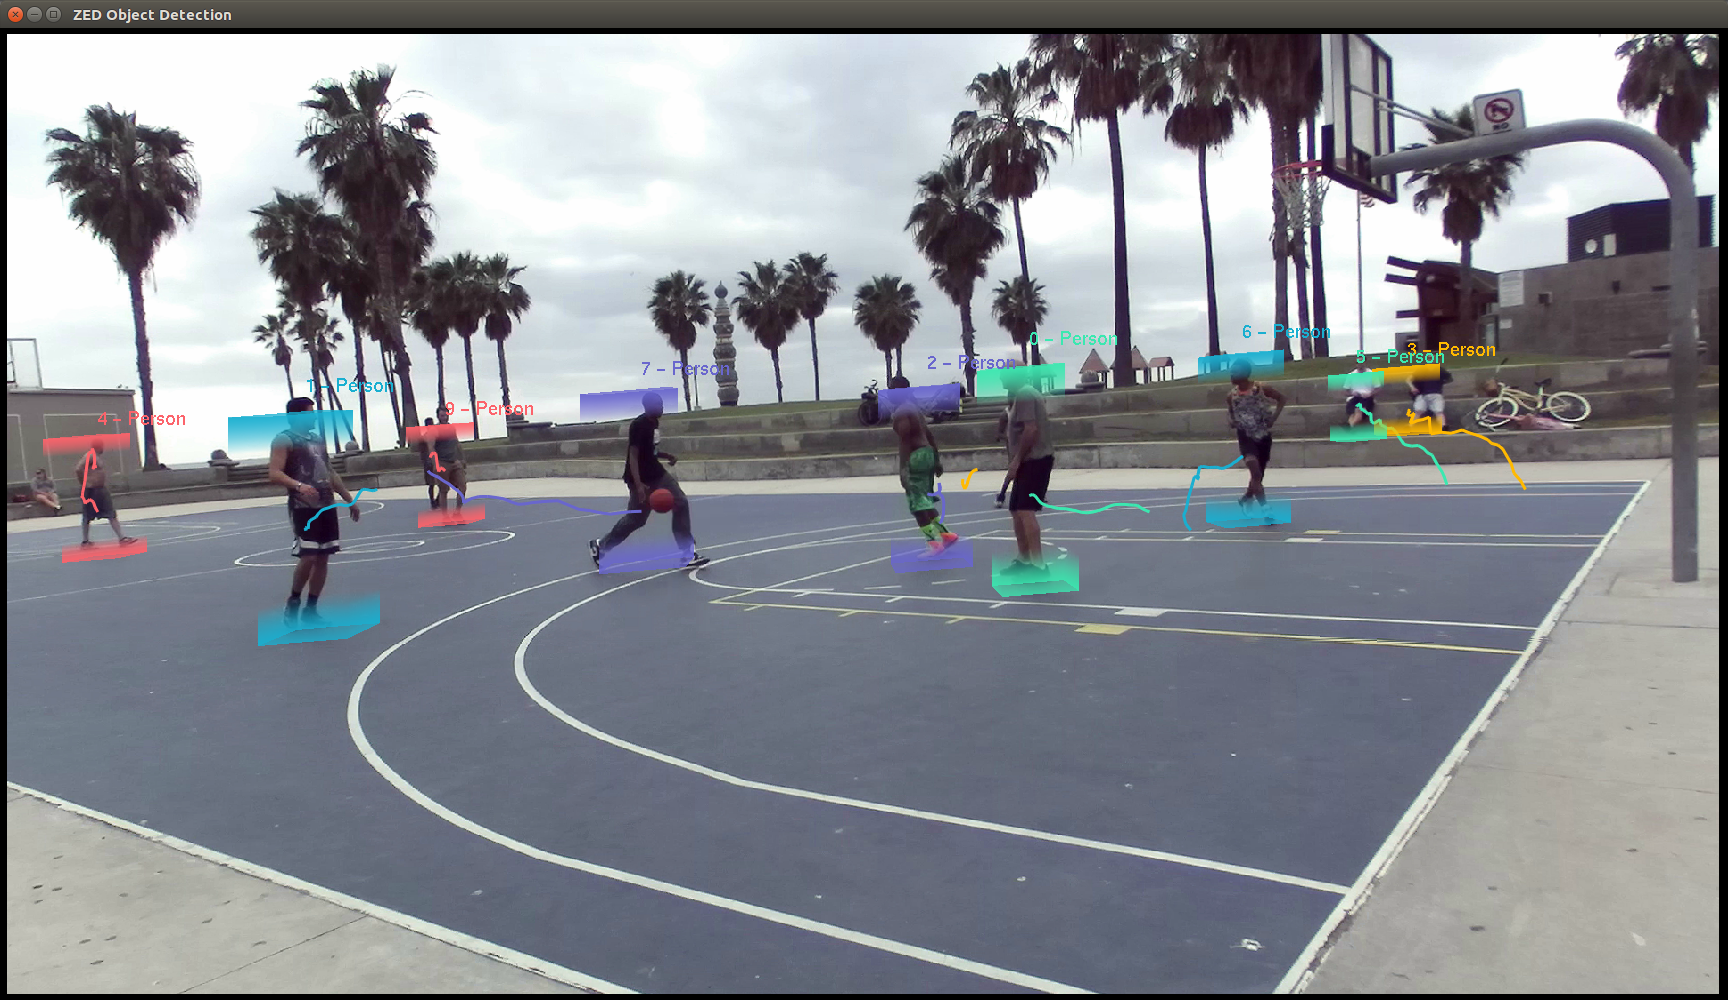
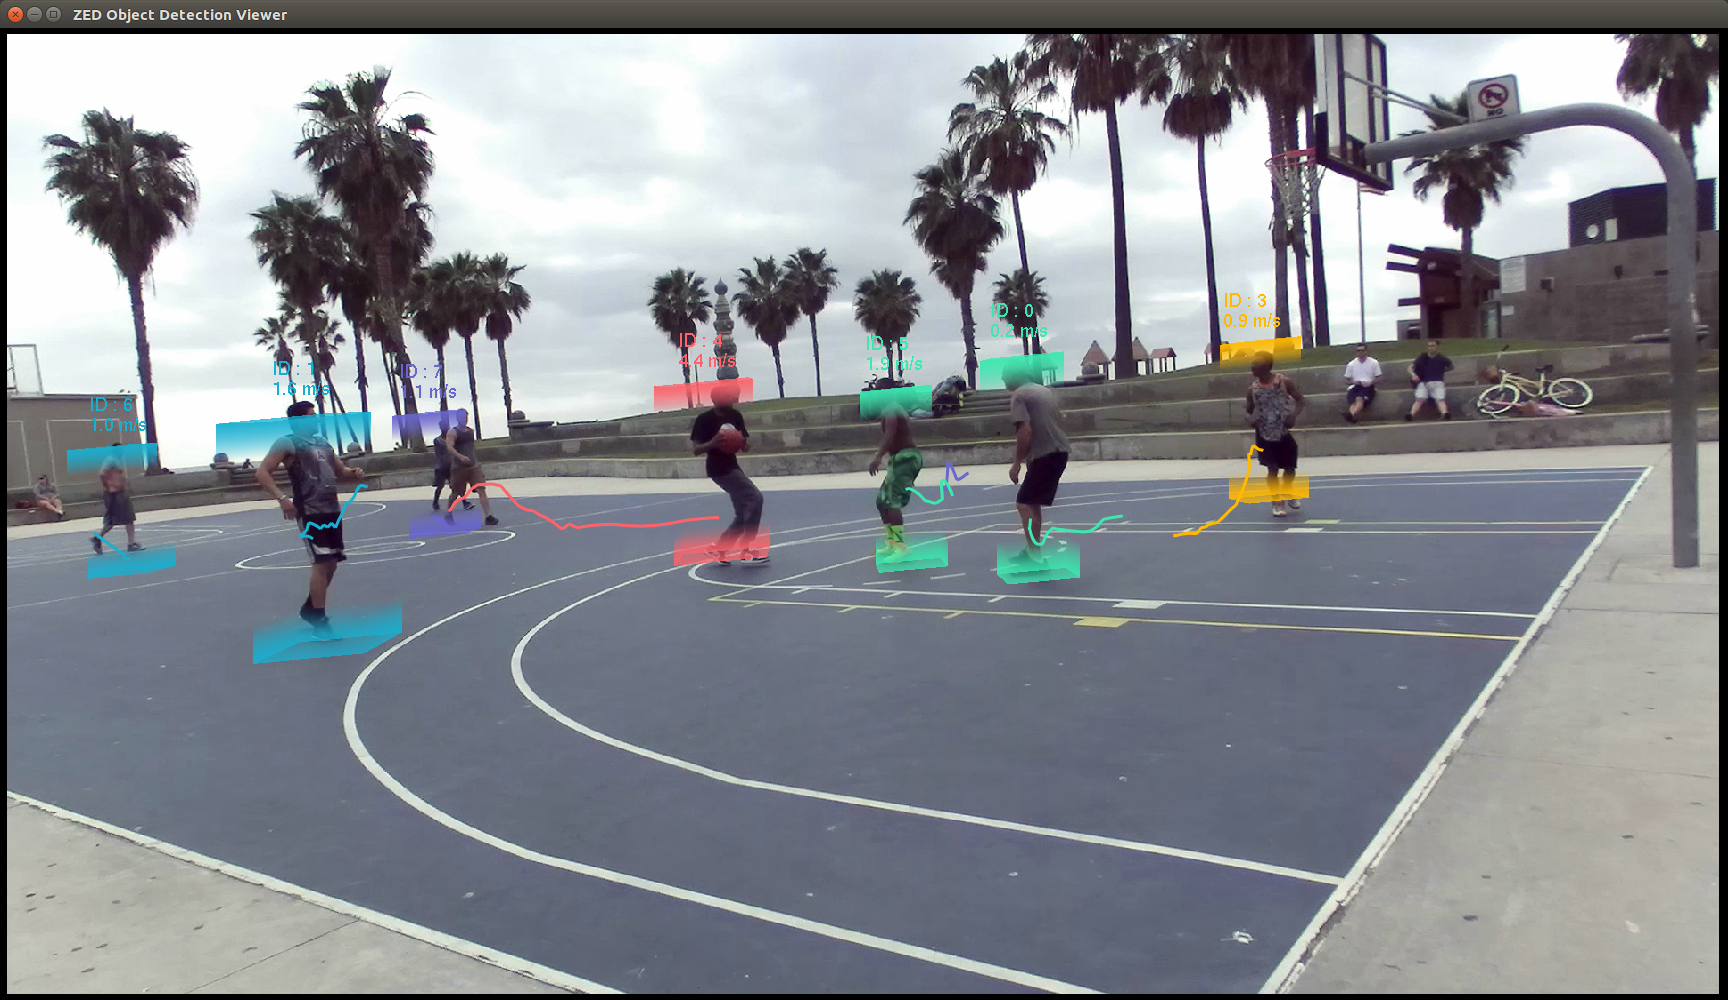
Add velocity - rework point cloud generation

diff --git a/src/GLViewer.cpp b/src/GLViewer.cpp
@@ -1,5 +1,6 @@
 #include "GLViewer.hpp"
 #include <random>
+#include "cuUtils.h"
 
 #if defined(_DEBUG) && defined(_WIN32)
 #error "This sample should not be built in Debug mode, use RelWithDebInfo if you want to do step by step."
@@ -77,7 +78,7 @@ void GLViewer::init(int argc, char **argv, sl::CameraParameters param) {
         height = param.image_size.height;
     }
 
-
+    camera_parameters = param;
     windowSize.width = width;
     windowSize.height = height;
     glutInitWindowSize(windowSize.width, windowSize.height);
@@ -100,9 +101,11 @@ void GLViewer::init(int argc, char **argv, sl::CameraParameters param) {
     glHint(GL_LINE_SMOOTH_HINT, GL_NICEST);
 
     pointCloudSize = param.image_size;
-    pointCloud_.initialize(pointCloudSize);
+    bool err_pc = pointCloud_.initialize(pointCloudSize);
+    if (!err_pc)
+        std::cout << "ERROR: Failed to initialized point cloud"<<std::endl;
 
-    // Compile and create the shader
+    // Compile and create the shader for 3D objects
     shader.it = Shader(VERTEX_SHADER, FRAGMENT_SHADER);
     shader.MVP_Mat = glGetUniformLocation(shader.it.getProgramId(), "u_mvpMatrix");
 
@@ -181,10 +184,10 @@ void GLViewer::render() {
     }
 }
 
-void GLViewer::updateData(sl::Mat &matXYZRGBA, sl::Objects &obj,sl::Timestamp image_ts) {
+void GLViewer::updateData(sl::Mat image, sl::Mat depth, sl::Objects &obj, sl::Timestamp image_ts) {
     if (mtx.try_lock()) {
 
-        pointCloud_.pushNewPC(matXYZRGBA);
+        pointCloud_.pushNewPC(image,depth,camera_parameters);
         BBox_obj.clear();
 
         std::vector<sl::ObjectData> objs = obj.object_list;
@@ -206,16 +209,13 @@ void GLViewer::updateData(sl::Mat &matXYZRGBA, sl::Objects &obj,sl::Timestamp im
                     BBox_obj.addBoundingBox(bb_,clr_id);
                 }
 
-                if (g_showLabel || g_showId) {
+                if (g_showLabel) {
                     if ( bb_.size()>0) {
                         objectsName.emplace_back();
-                        std::string label(sl::toString(objs[i].label).c_str());
-                        std::string name = "";
-                        if (g_showId)
-                            name += std::to_string(objs[i].id) + " - ";
-                        if(g_showLabel)
-                            name += label;
-                        objectsName.back().name = name;
+                        objectsName.back().name_lineA = "ID : "+ std::to_string(objs[i].id);
+                        std::stringstream ss_vel;
+                        ss_vel << std::fixed << std::setprecision(1) << objs[i].velocity.norm();
+                        objectsName.back().name_lineB = ss_vel.str()+" m/s";
                         objectsName.back().color = clr_id;
                         objectsName.back().position = pos_;
                         objectsName.back().position.y =(bb_[0].y + bb_[1].y + bb_[2].y + bb_[3].y)/4.f +0.2f;
@@ -283,8 +283,8 @@ void GLViewer::update() {
 
 void GLViewer::draw() {
     const sl::Transform vpMatrix = projection_; //simplification : proj * view = proj
-    float pointSize = 1.0;
-    glPointSize(pointSize);
+
+    glPointSize(1.0);
     pointCloud_.draw(vpMatrix);
 
     glUseProgram(shader.it.getProgramId());
@@ -300,7 +300,6 @@ void GLViewer::draw() {
 #endif
 
     glLineWidth(1.f);
-    glPointSize(1.0);
     glPolygonMode(GL_FRONT_AND_BACK, GL_FILL);
     BBox_obj.draw(vpMatrix);
     glUseProgram(0);
@@ -321,9 +320,15 @@ void GLViewer::printText() {
     for (auto it : objectsName) {
         auto pt2d = compute3Dprojection(it.position, vpMatrix, wnd_size);
         glColor4f(it.color.r, it.color.g, it.color.b, 1.f);
-        const auto *string = it.name.c_str();
-        glWindowPos2f(pt2d.x, pt2d.y);
+        const auto *string = it.name_lineA.c_str();
+        glWindowPos2f(pt2d.x-40, pt2d.y+20);
         int len = (int)strlen(string);
+        for (int i = 0; i < len; i++)
+            glutBitmapCharacter(GLUT_BITMAP_HELVETICA_18, string[i]);
+
+        string = it.name_lineB.c_str();
+        glWindowPos2f(pt2d.x-40, pt2d.y);
+        len = (int)strlen(string);
         for (int i = 0; i < len; i++)
             glutBitmapCharacter(GLUT_BITMAP_HELVETICA_18, string[i]);
     }
@@ -696,45 +701,42 @@ PointCloud::~PointCloud() {
     close();
 }
 
-void checkError(cudaError_t err) {
-    if (err != cudaSuccess)
-        std::cerr << "Error: (" << err << "): " << cudaGetErrorString(err) << std::endl;
-}
-
 void PointCloud::close() {
     if (matGPU_.isInit()) {
         matGPU_.free();
-        checkError(cudaGraphicsUnmapResources(1, &bufferCudaID_, 0));
+        cudaGraphicsUnmapResources(1, &bufferCudaID_, 0);
         glDeleteBuffers(1, &bufferGLID_);
     }
 }
 
-void PointCloud::initialize(sl::Resolution res) {
+bool PointCloud::initialize(sl::Resolution res) {
     glGenBuffers(1, &bufferGLID_);
     glBindBuffer(GL_ARRAY_BUFFER, bufferGLID_);
     glBufferData(GL_ARRAY_BUFFER, res.area() * 4 * sizeof(float), 0, GL_DYNAMIC_DRAW);
     glBindBuffer(GL_ARRAY_BUFFER, 0);
 
-    checkError(cudaGraphicsGLRegisterBuffer(&bufferCudaID_, bufferGLID_, cudaGraphicsRegisterFlagsNone));
-
     shader.it = Shader(POINTCLOUD_VERTEX_SHADER, POINTCLOUD_FRAGMENT_SHADER);
     shader.MVP_Mat = glGetUniformLocation(shader.it.getProgramId(), "u_mvpMatrix");
     matGPU_.alloc(res, sl::MAT_TYPE::F32_C4, sl::MEM::GPU);
 
-    checkError(cudaGraphicsMapResources(1, &bufferCudaID_, 0));
-    checkError(cudaGraphicsResourceGetMappedPointer((void**)&xyzrgbaMappedBuf_, &numBytes_, bufferCudaID_));
+    cudaError_t err = cudaGraphicsGLRegisterBuffer(&bufferCudaID_, bufferGLID_, cudaGraphicsRegisterFlagsNone);
+    err = cudaGraphicsMapResources(1, &bufferCudaID_, 0);
+    err = cudaGraphicsResourceGetMappedPointer((void**)&xyzrgbaMappedBuf_, &numBytes_, bufferCudaID_);
+    return (err==cudaSuccess);
 }
 
-void PointCloud::pushNewPC(sl::Mat &matXYZRGBA) {
+void PointCloud::pushNewPC(sl::Mat &image, sl::Mat& depth, sl::CameraParameters cam_params)
+{
     if (matGPU_.isInit()) {
-        matGPU_.setFrom(matXYZRGBA, sl::COPY_TYPE::GPU_GPU);
-        hasNewPCL_ = true;
+        // CUDA code to convert Image + Z Buffer into single point cloud
+        // It was possible to do it also on a GLSL shader, but... just a choice.
+        hasNewPCL_ = triangulateImageandZ(matGPU_,image,depth,cam_params);
     }
 }
 
 void PointCloud::update() {
     if (hasNewPCL_ && matGPU_.isInit()) {
-        checkError(cudaMemcpy(xyzrgbaMappedBuf_, matGPU_.getPtr<sl::float4>(sl::MEM::GPU), numBytes_, cudaMemcpyDeviceToDevice));
+        cudaMemcpy(xyzrgbaMappedBuf_, matGPU_.getPtr<sl::float4>(sl::MEM::GPU), numBytes_, cudaMemcpyDeviceToDevice);
         hasNewPCL_ = false;
     }
 }
@@ -745,8 +747,8 @@ void PointCloud::draw(const sl::Transform& vp) {
         glUniformMatrix4fv(shader.MVP_Mat, 1, GL_TRUE, vp.m);
 
         glBindBuffer(GL_ARRAY_BUFFER, bufferGLID_);
-        glVertexAttribPointer(Shader::ATTRIB_VERTICES_POS, 4, GL_FLOAT, GL_FALSE, 0, 0);
-        glEnableVertexAttribArray(Shader::ATTRIB_VERTICES_POS);
+        glEnableVertexAttribArray(0);
+        glVertexAttribPointer(0, 4, GL_FLOAT, GL_FALSE, 0, 0);
 
         glDrawArrays(GL_POINTS, 0, matGPU_.getResolution().area());
         glBindBuffer(GL_ARRAY_BUFFER, 0);

diff --git a/src/main.cpp b/src/main.cpp
@@ -96,7 +96,7 @@ int main(int argc, char **argv) {
     initParameters.depth_mode = sl::DEPTH_MODE::PERFORMANCE;
     initParameters.coordinate_system = sl::COORDINATE_SYSTEM::RIGHT_HANDED_Y_UP;
     initParameters.coordinate_units = sl::UNIT::METER;
-    initParameters.depth_maximum_distance = 10000.f; //Fake infinity
+    initParameters.depth_maximum_distance =15.f; //For object detection, Objects after 15meters may not be precise enough.
     parseArgs(argc,argv, initParameters);
 
     // Open the camera
@@ -145,10 +145,12 @@ int main(int argc, char **argv) {
     float object_confidence = 50.f;
     ObjectDetectionRuntimeParameters objectTracker_parameters_rt;
     objectTracker_parameters_rt.detection_confidence_threshold = object_confidence;
+    objectTracker_parameters_rt.object_class_filter.clear();
+    objectTracker_parameters_rt.object_class_filter.push_back(sl::OBJECT_CLASS::PERSON);
 
     // Create ZED Objects
     Objects objects;
-    Mat point_cloud;
+    Mat pDepth,pImage;
     sl::Timestamp current_im_ts;
 
     // Capture Thread (grab will run in the thread)
@@ -158,11 +160,15 @@ int main(int argc, char **argv) {
     // Update 3D loop
     while (viewer.isAvailable()) {
         if (newFrame) {
-            zed.retrieveMeasure(point_cloud, MEASURE::XYZRGBA, MEM::GPU, resolution);
+            //Retrieve Images and Z-Buffer
+            zed.retrieveMeasure(pDepth, MEASURE::DEPTH, MEM::GPU);
+            zed.retrieveImage(pImage, VIEW::LEFT, MEM::GPU);
+            //Retrieve Objects
             zed.retrieveObjects(objects, objectTracker_parameters_rt);
             current_im_ts = zed.getTimestamp(sl::TIME_REFERENCE::IMAGE);
             newFrame=false;
-            viewer.updateData(point_cloud, objects,current_im_ts);
+            //Update GL view
+            viewer.updateData(pImage,pDepth, objects,current_im_ts);
         }
         else
             sleep_ms(1);
@@ -171,7 +177,8 @@ int main(int argc, char **argv) {
     // OUT
     exit_=true;
     runner.join();
-    point_cloud.free();
+    pImage.free();
+    pDepth.free();
     objects.object_list.clear();
 
     // Disable modules

diff --git a/include/GLViewer.hpp b/include/GLViewer.hpp
@@ -1,4 +1,4 @@
-#ifndef __VIEWER_INCLUDE__
+#ifndef __VIEWER_INCLUDE__
 #define __VIEWER_INCLUDE__
 
 #include <vector>
@@ -105,16 +105,12 @@ public:
     ~PointCloud();
 
     // Initialize Opengl and Cuda buffers
-    // Warning: must be called in the Opengl thread
-    void initialize(sl::Resolution res);
-    // Push a new point cloud
-    // Warning: can be called from any thread but the mutex "mutexData" must be locked
-    void pushNewPC(sl::Mat &matXYZRGBA);
+    bool initialize(sl::Resolution res);
+    // Push a new Image + Z buffer and transform into a point cloud
+    void pushNewPC(sl::Mat &image, sl::Mat& depth, sl::CameraParameters cam_params);
     // Update the Opengl buffer
-    // Warning: must be called in the Opengl thread
     void update();
     // Draw the point cloud
-    // Warning: must be called in the Opengl thread
     void draw(const sl::Transform& vp);
     // Close (disable update)
     void close();
@@ -131,7 +127,8 @@ private:
 
 struct ObjectClassName {
     sl::float3 position;
-    std::string name;
+    std::string name_lineA;
+    std::string name_lineB;
     sl::float3 color;
 };
 
@@ -148,7 +145,7 @@ public:
     bool isAvailable();
 
     void init(int argc, char **argv, sl::CameraParameters param);
-    void updateData(sl::Mat &matXYZRGBA, sl::Objects &objs, sl::Timestamp image_ts);
+    void updateData(sl::Mat image,sl::Mat depth, sl::Objects &obj,sl::Timestamp image_ts);
 
     void exit();
 
@@ -213,12 +210,12 @@ private:
     sl::Resolution windowSize;
     sl::Resolution pointCloudSize;
 
-    bool g_showCamera=true;
+    sl::CameraParameters camera_parameters;
     bool g_showBox=true;
     bool g_showLabel=true;
-    bool g_showId=true;
 
     float line_fading_time_ms = 1000; // 1sec
+    float max_object_distance_limit = 15.f; //15meters
 
 };
 

diff --git a/include/cuUtils.h b/include/cuUtils.h
@@ -1,0 +1,23 @@
+#ifndef DOF_GPU_H
+#define DOF_GPU_H
+
+/* dof_gpu.h.
+ *
+ * This file contains the interface to the CUDA functions ,
+ * for rendering depth of field, based on Gaussian blurring
+ * using separable convolution, with depth-dependent kernel size.
+ * Separable convolution is based on convolution CUDA Sample with kernel-size adaptation
+ */
+
+#include "cuda.h"
+#include "cuda_runtime.h"
+#include <math.h> 
+#include <algorithm>
+#include <stdint.h>
+#include <sl/Camera.hpp>
+
+
+// Convert Depth map and Image to a point cloud
+bool triangulateImageandZ(sl::Mat point_cloud, sl::Mat image, sl::Mat depth, sl::CameraParameters cam_params);
+
+#endif //DOF_GPU_H
